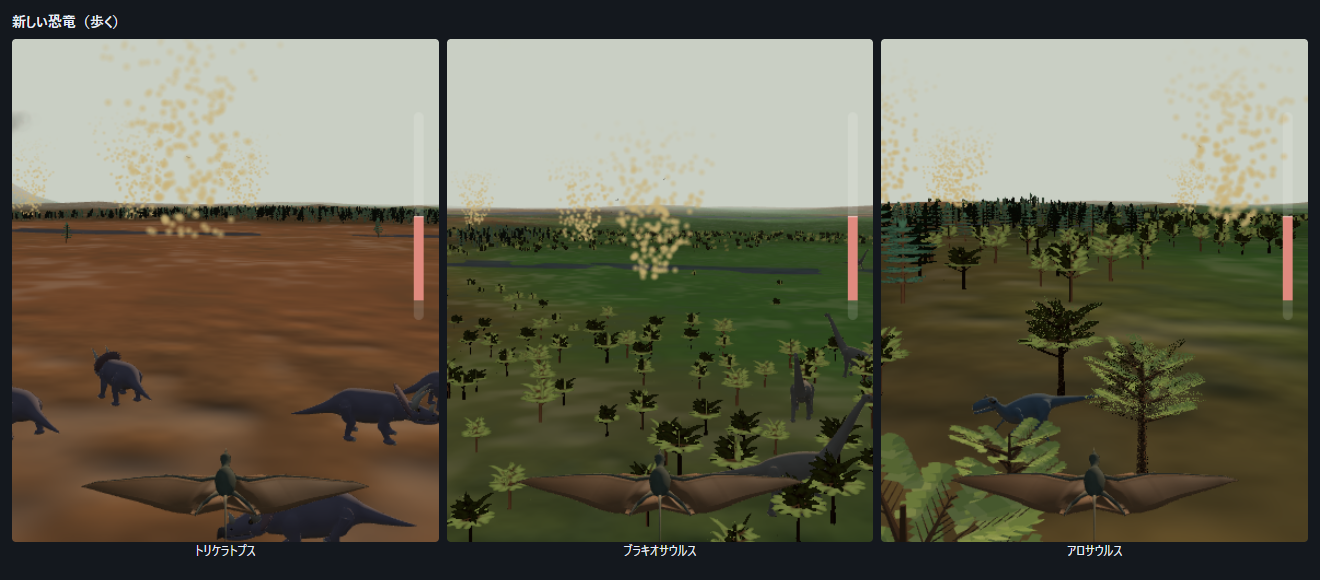
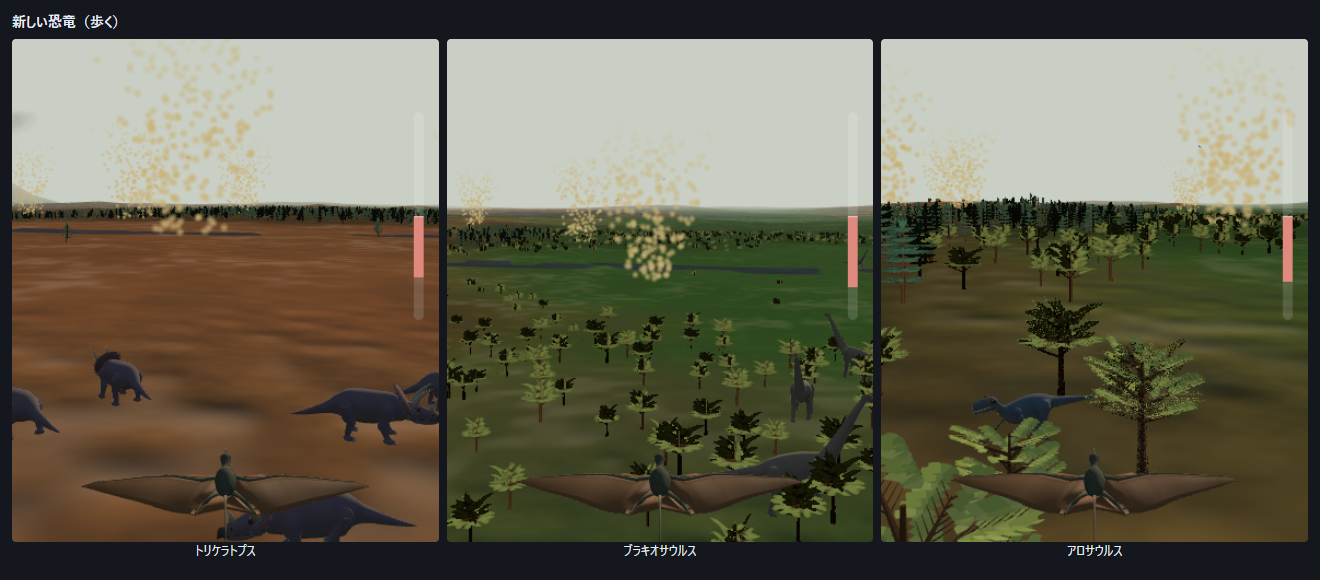
低く飛ぶほど沈みにくくした(地面近くの暖まった空気)
低空は「落ちる直前の時間」しかなかった。高さ40mから地面まで14秒で、
恐竜を間近で見る余裕がない。

まず斜面の吹き上げを試したが、この地形はゆるく(傾きの中央値2.5°)、
効果は0.2〜0.6 m/sで沈下2.85 m/sに対して無力だった(測定済み)。
効いたのは「地面の近くの暖まった空気の層」。

- TUNE.warmK(8) / warmH(45m): 乾いて開けた地面ほど強く、高さで急に弱まる。
  斜面を這い上がる分(slopeK)も足す。日が暮れると消える
- 柱の外の正味[m/s]: 高さ25m -2.85 -> -0.32(ほぼ保てる) / 60m -> -1.69(60mから35秒)
  / 120m -> -2.54(中くらいの高さは元のまま)
- 自動操縦 7.09 -> 8.06km、低空(120m以下)で過ごす割合 27% -> 32%、
  直進との差は2.6倍で腕の差は残る

スタート画面に「低く飛ぶほど沈みにくい」の一行を追加(数字は出さない)。
地表の砂色の斑がそのまま目印になる(乾いて開けた地面=暖まる=上昇気流も出る)。

検査 tools/check-lowfly.mjs を追加(ブラウザ不要)。
「画面から出ない」は旋回30->15秒に短縮(いきものが増えて1コマが重くなったため)。
全15本PASS。

diff --git a/src/world.js b/src/world.js
@@ -157,6 +157,10 @@ export class Terrain {
 }
 
 export const TUNE = {
+  warmK: 8,           // 地面近くの暖まった空気の強さ [m/s](0で無効)。低く飛ぶほど沈みにくい
+  warmH: 45,          // 高さ方向の効き幅 [m]。小さいほど「低空だけ」に効く
+  warmCap: 3.0,       // 上限 [m/s]
+  slopeK: 14,         // 斜面を這い上がる分の強さ
   moistHollow: 0.30,  // 谷が湿り尾根が乾く度合い。0だと地形と植生が無関係になり、上空から起伏が読めない
   spacing: 900,       // 上昇風の間隔 [m]
   jitter: 320,
@@ -239,7 +243,30 @@ export class ThermalField {
       if (v > best) best = v;
     }
     if (best < 0) best = Math.max(best, -TUNE.ambient * 2.2);
-    return (best === -1e9 ? 0 : best) * sun - TUNE.ambient + this.ridgeAt(x, y, z, sun);
+    return (best === -1e9 ? 0 : best) * sun - TUNE.ambient + this.ridgeAt(x, y, z, sun) + this.slopeLift(x, y, z, sun);
+  }
+  // 地面の近くの、暖まった空気の層。乾いて開けた地面ほど厚く、日が暮れると消える。
+  // 地面から離れるほど弱まるので「低く飛ぶ」こと自体が高度を伸ばす手になる。
+  // 斜面を這い上がる分(日の当たる面ほど強い)も足す。風は要らない(尾根の上昇風とは別もの)。
+  slopeLift(x, y, z, sun = 1) {
+    if (TUNE.warmK <= 0) return 0;
+    const t = this.t;
+    const agl = Math.max(0, z - t.height(x, y));
+    if (agl > TUNE.warmH * 3.5) return 0;                 // 高い所では効かない
+    const dry = 1 - t.moisture(x, y);
+    const open = 1 - t.grove(x, y);
+    const decay = Math.exp(-agl / TUNE.warmH);
+    let v = TUNE.warmK * dry * (0.45 + 0.55 * open) * sun * decay;
+    if (TUNE.slopeK > 0) {
+      const e = 45;
+      const gx = (t.height(x + e, y) - t.height(x - e, y)) / (2 * e);
+      const gy = (t.height(x, y + e) - t.height(x, y - e)) / (2 * e);
+      const g = Math.hypot(gx, gy);
+      // 太陽は +Y の方角の低い空にある。その側を向いた斜面(+Yへ下る面)ほど暖まる
+      const faceSun = 0.55 + 0.45 * Math.max(0, -gy / (g || 1));
+      v += TUNE.slopeK * g * dry * faceSun * sun * decay;
+    }
+    return Math.min(TUNE.warmCap, v);
   }
   // 尾根の上昇風: 風が斜面を登る向きに当たれば上がり、風下側では下がる。
   // 日が暮れると風も弱まる(尾根だけで永遠に飛べないように)

diff --git a/index.html b/index.html
@@ -76,7 +76,9 @@
       見つけかたは、舞い上がっている土ぼこりの柱。<br><br>
       操作は左右だけ。<kbd>←</kbd><kbd>→</kbd>、スマホは画面の左半分／右半分を押しっぱなし。<br>
       押している間だけ曲がります。<br><br>
-      右の帯と音が上がっていれば、上昇気流の芯に近い。<br>
+      右の帯と音が上がっていれば、上昇気流の芯に近い。<br><br>
+      乾いて開けた地面のすぐ上は空気が暖かく、<b>低く飛ぶほど沈みにくい</b>。<br>
+      恐竜を間近で見たいときは、地面すれすれを行く。<br>
       日が傾くと空気は上がらなくなります。降りたところが記録。
     </p>
     <div id="cams" role="radiogroup" aria-label="カメラ">

diff --git a/README.md b/README.md
@@ -35,6 +35,8 @@ npm run dev     # http://localhost:8141
 - 着地すると減速して翼を畳み、四足で降りる
 - 既定は丘のある世界。`?world=flat` で起伏なし、`?world=ridge` で尾根の風の試作
 - 右の帯と音が上昇率。芯に近いほど高く速く鳴る
+- **低く飛ぶほど沈みにくい**。乾いて開けた地面のすぐ上には暖まった空気の層がある（`TUNE.warmK`）。
+  高さ25mで正味-0.32 m/s（ほぼ保てる）、60mで-1.69、120mで-2.54（中くらいの高さは元のまま）。日が暮れると消える
 - 日が傾くと空気は上がらなくなる。降りたところが記録
 - `?seed=17` で同じ地形を再現。`R` またはダブルタップでやり直し
 
@@ -47,6 +49,7 @@ npm run dev     # http://localhost:8141
 | 操作は左右だけ | 速度操作を足しても上限は11.06kmのまま動かず、下限だけ3.53km→2.22kmに落ちた。難しさだけ増えて面白さは増えない |
 | 上昇率を音で出す | 芯から80mずれると300m上がるのに16.6分（芯なら3.3分）、100mずれると上がれない。今どれだけ上がっているか分からないと左右の操作が運になる |
 | 上昇気流の外は沈む | これが無いと素通りするだけで高度が増え、直進でも7.3km出てしまい「見送る」に代償が無くなった |
+| 地面の近くだけ沈みにくくした | 低空は「落ちる直前の時間」だけだった(高さ40mから14秒)。地面近くの暖まった空気を足して25mで-0.32m/s・60mから35秒に。恐竜を間近で見る時間が作れる。効き幅45mなので120m以上は元のまま(-2.54)、日没で消える |
 
 測定の詳細は `docs/FINDINGS.md`。
 
